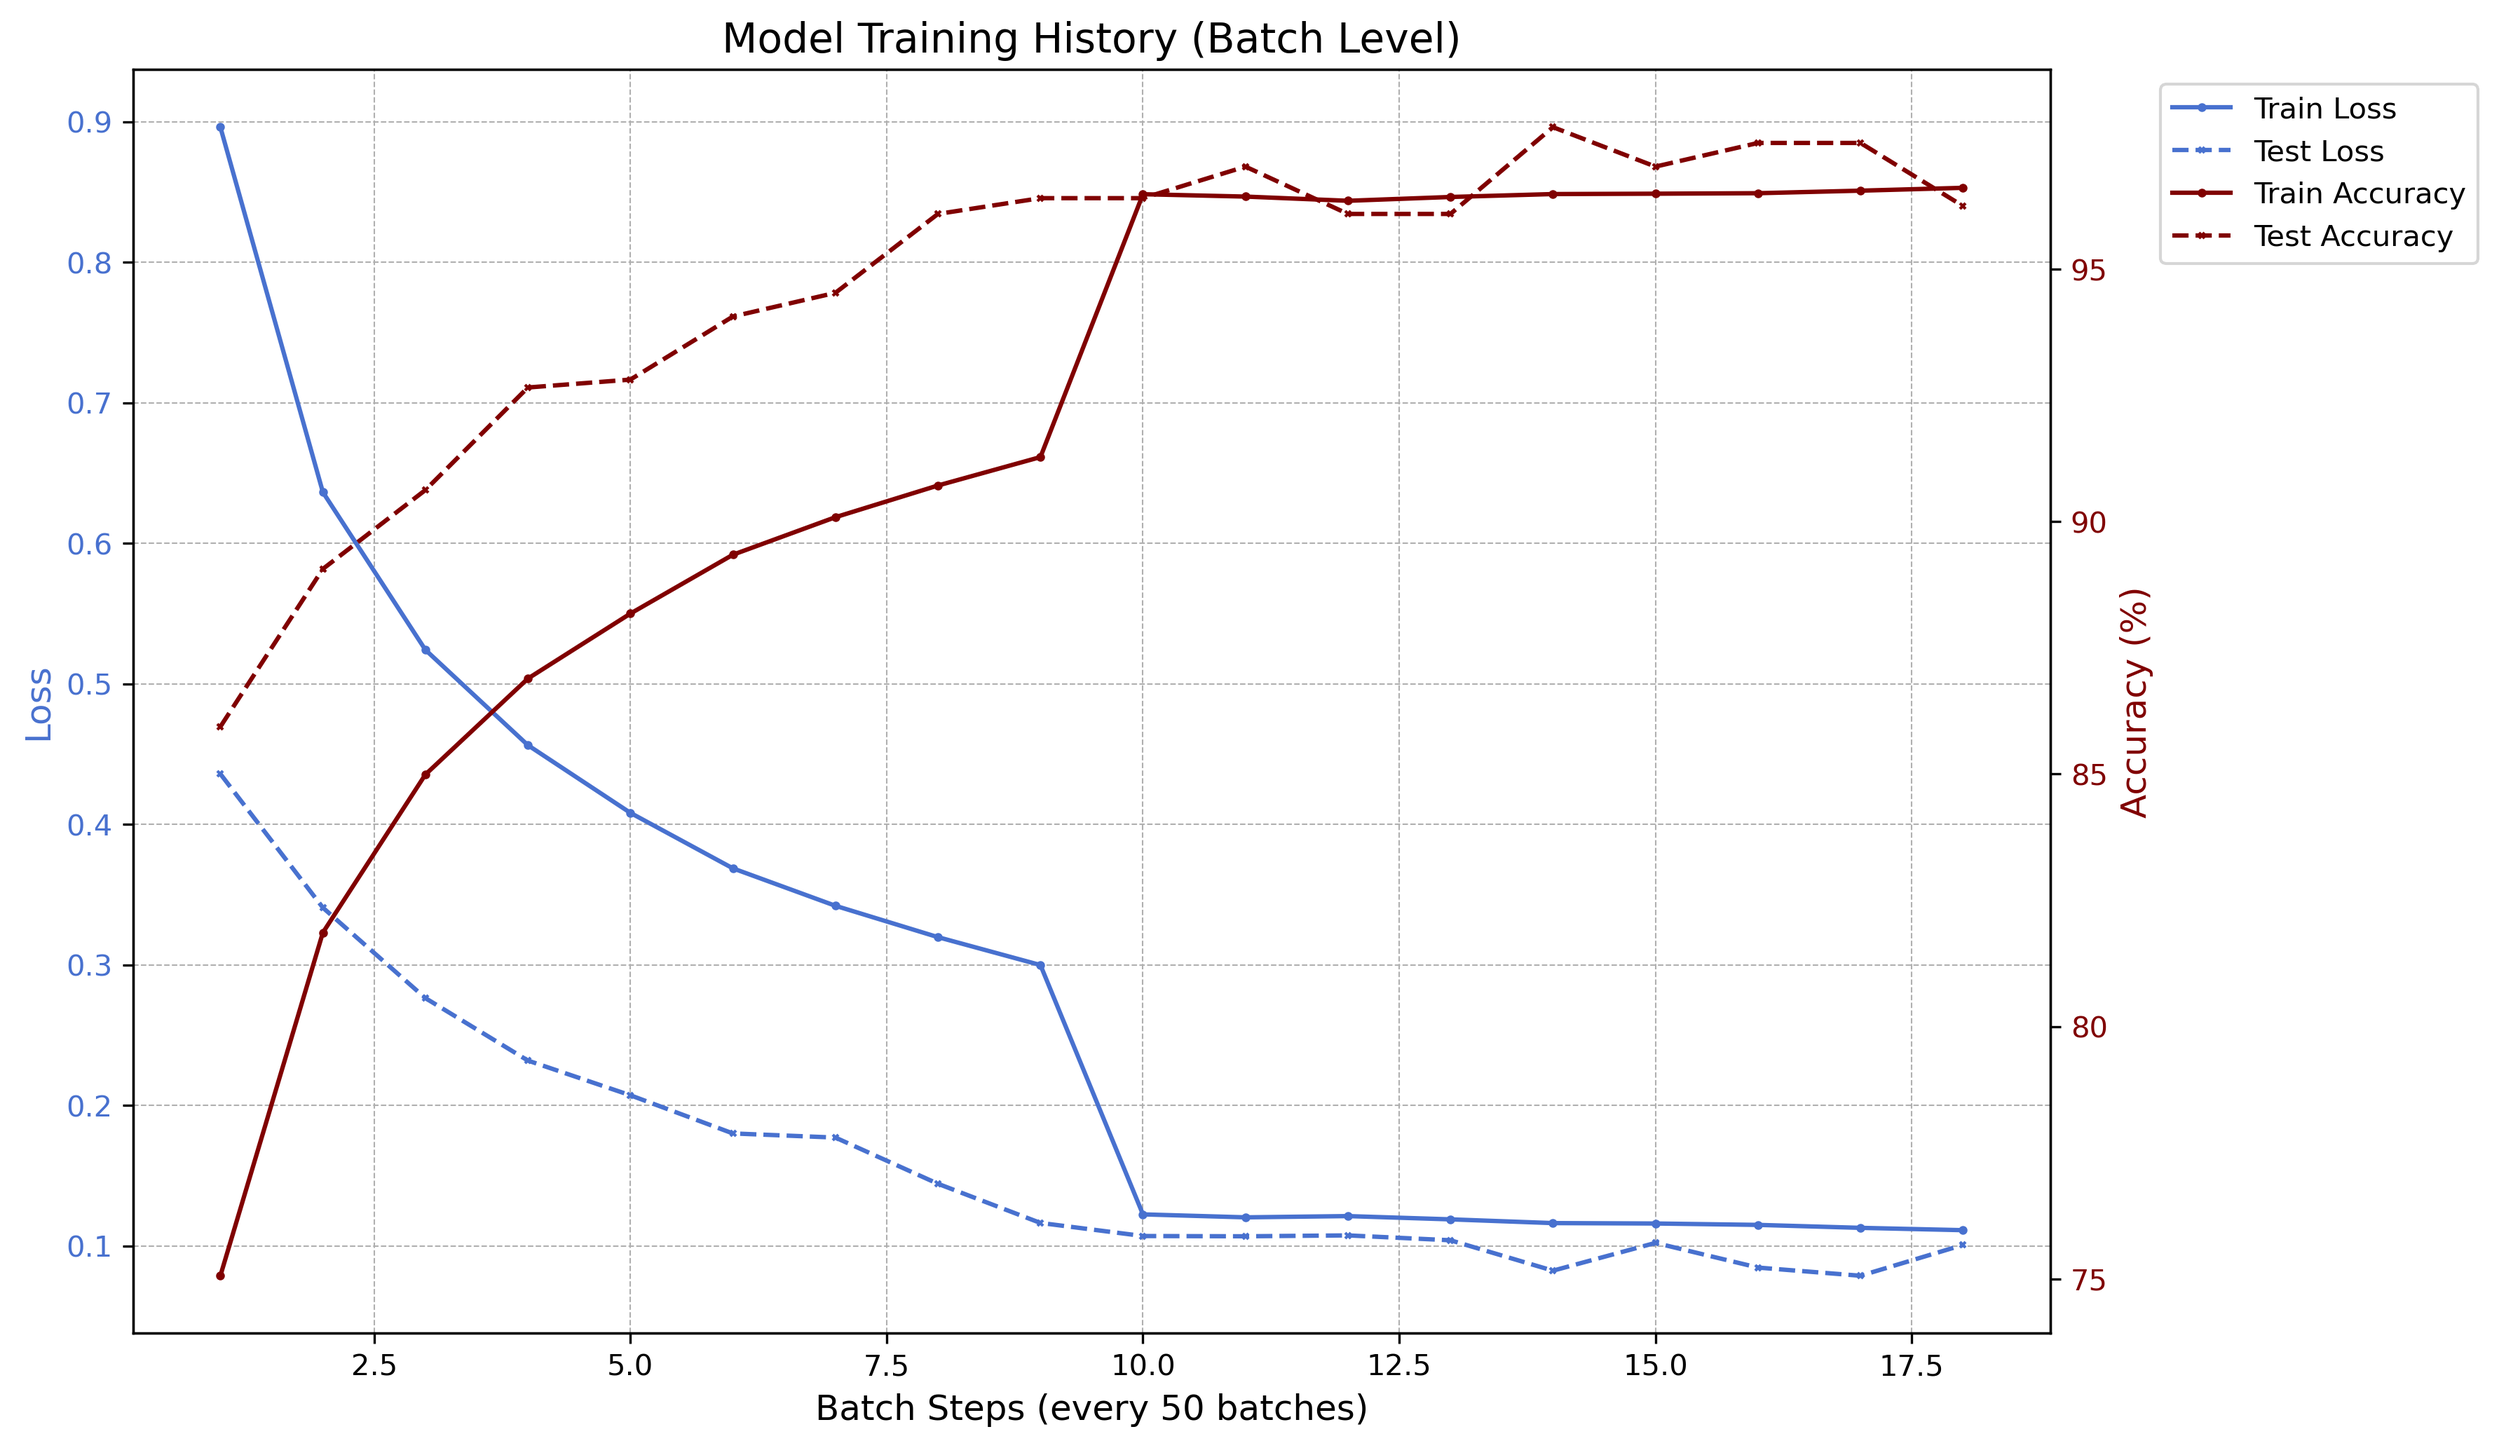
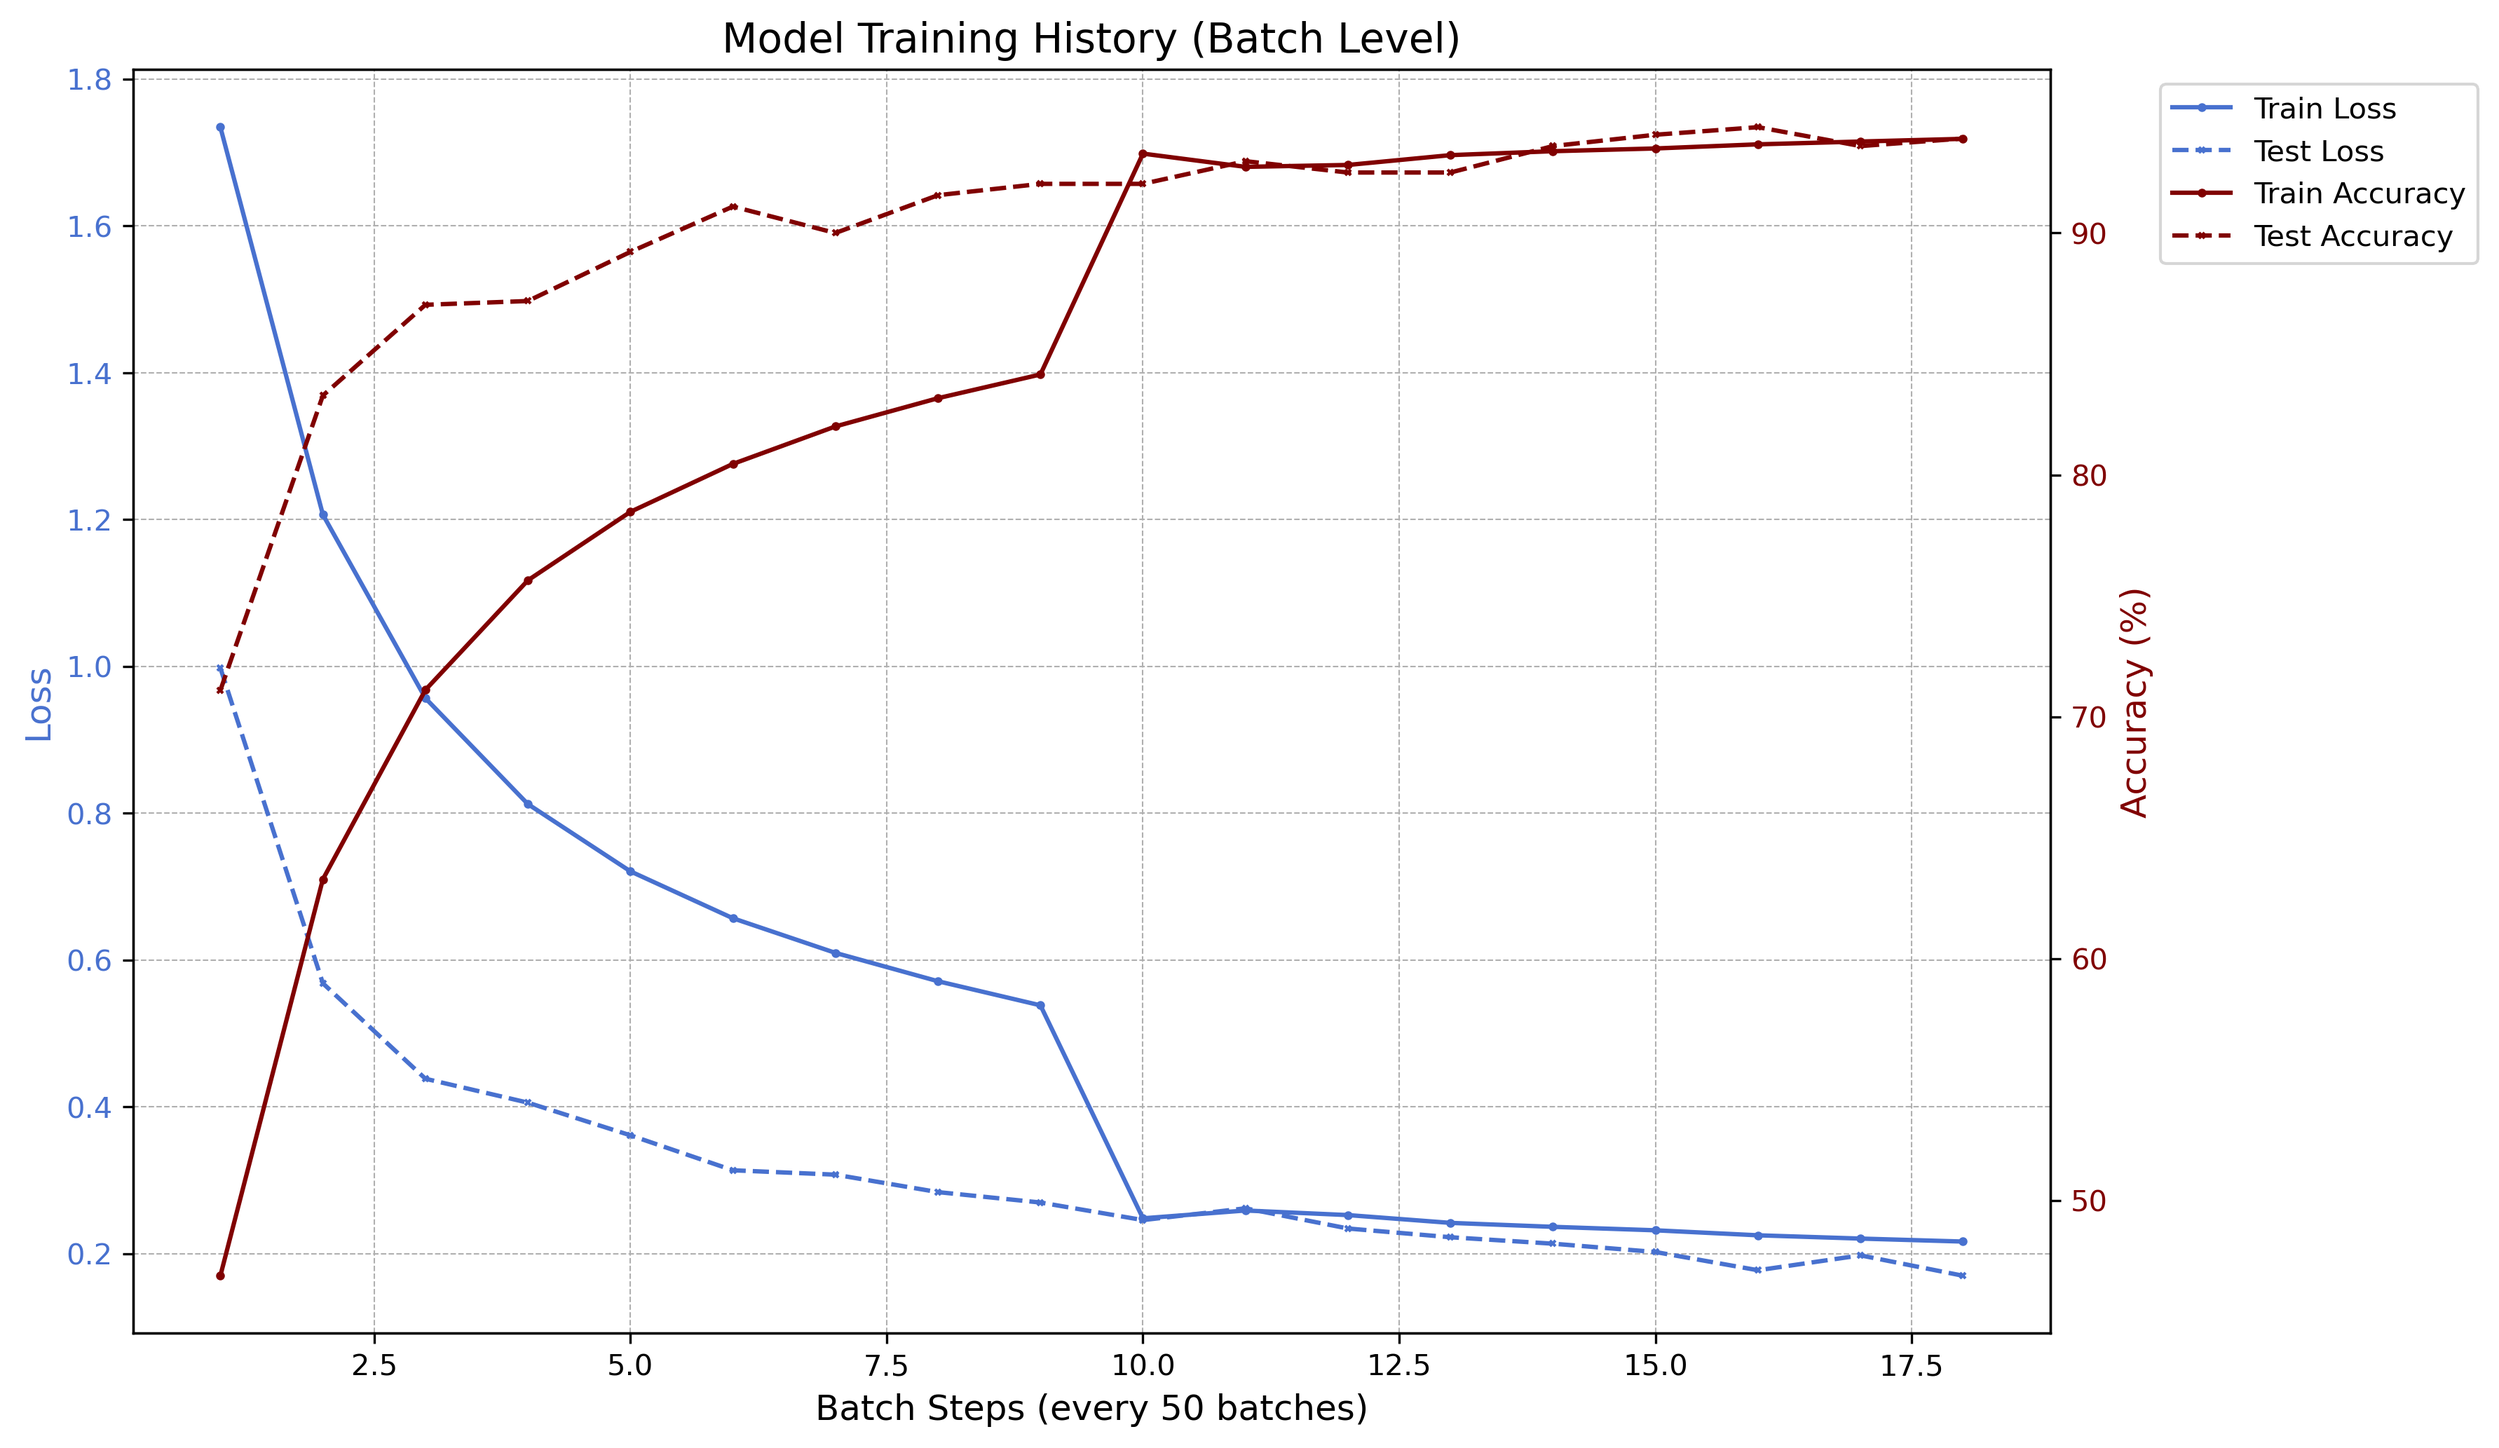
fix distill bug

diff --git a/models/defensive_distillation/train.py b/models/defensive_distillation/train.py
@@ -6,6 +6,22 @@ import numpy as np
 import time
 from train_mnist_utils import get_mnist_train_and_test_loaders, train, evaluate_model, plot_training_history, plot_batch_training_history, log_final_model_stats, count_parameters
 
+class TemperatureScaledNLLLoss(nn.Module):
+    """Negative log-likelihood with temperature-scaled softmax.
+
+    The logits are divided by temperature **T** before the log-softmax is taken.
+    Setting T=1 reduces to the standard NLL loss.
+    """
+    def __init__(self, T: float = 1.0):
+        super().__init__()
+        self.T = T
+        self.nll_loss = nn.NLLLoss()
+
+    def forward(self, logits, target):
+        # Scale logits by temperature and compute log-probabilities
+        log_probs = F.log_softmax(logits / self.T, dim=1)
+        return self.nll_loss(log_probs, target)
+
 class FeedforwardMNIST(nn.Module):
     """Simple 4-layer MLP for MNIST classification"""
     def __init__(self, num_classes=10):
@@ -42,7 +58,10 @@ def main():
     print(f"FeedforwardMNIST parameters: {count_parameters(model):,}")
     
     train_loader, test_loader = get_mnist_train_and_test_loaders()
-    criterion = torch.nn.CrossEntropyLoss()
+    # Temperature to use for softmax scaling
+    temperature = 20
+    print(f"Training with T={temperature}")
+    criterion = TemperatureScaledNLLLoss(temperature)
     optimizer = torch.optim.Adam(model.parameters(), lr=2e-3)
 
     epochs = 2
